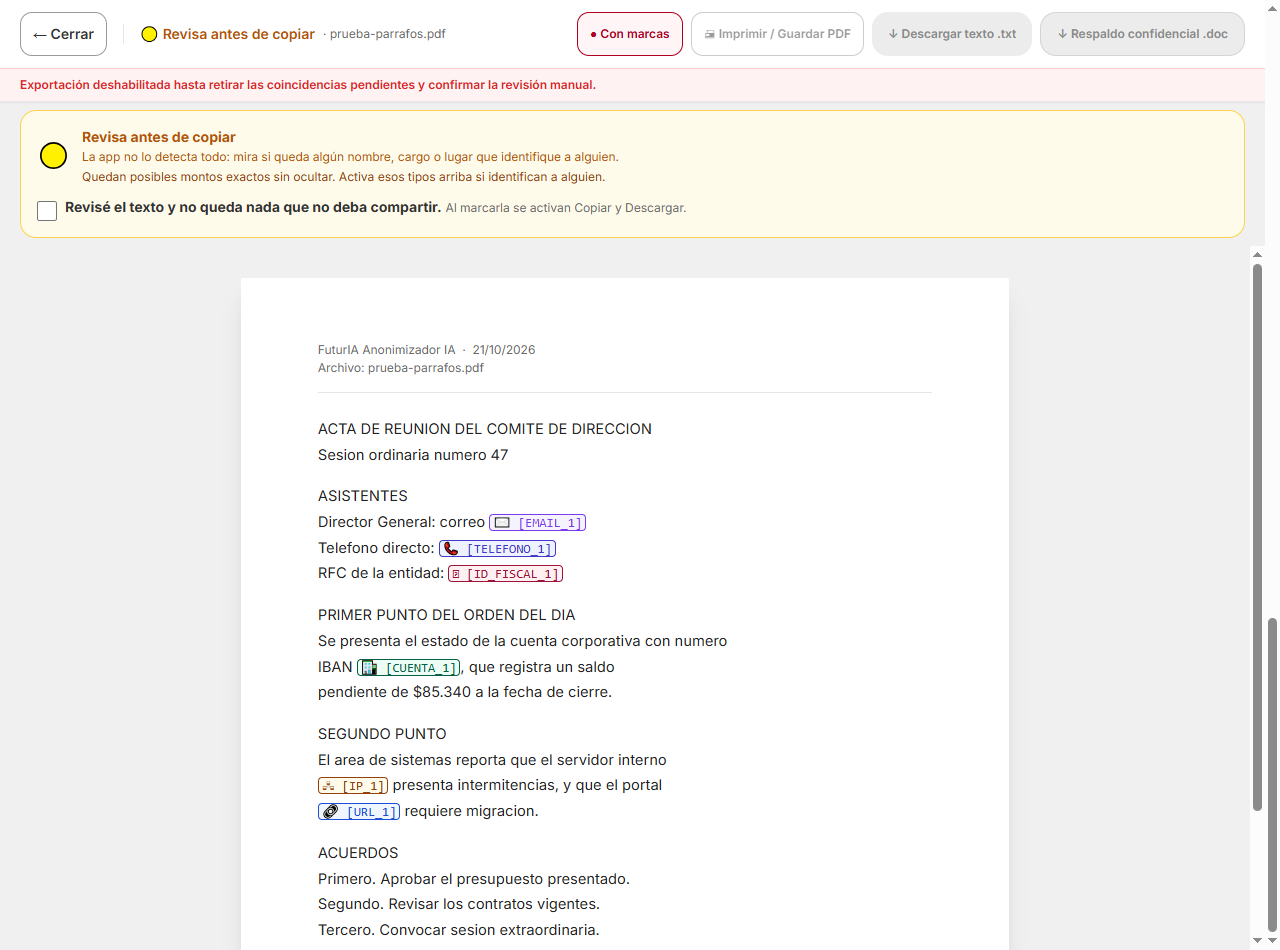
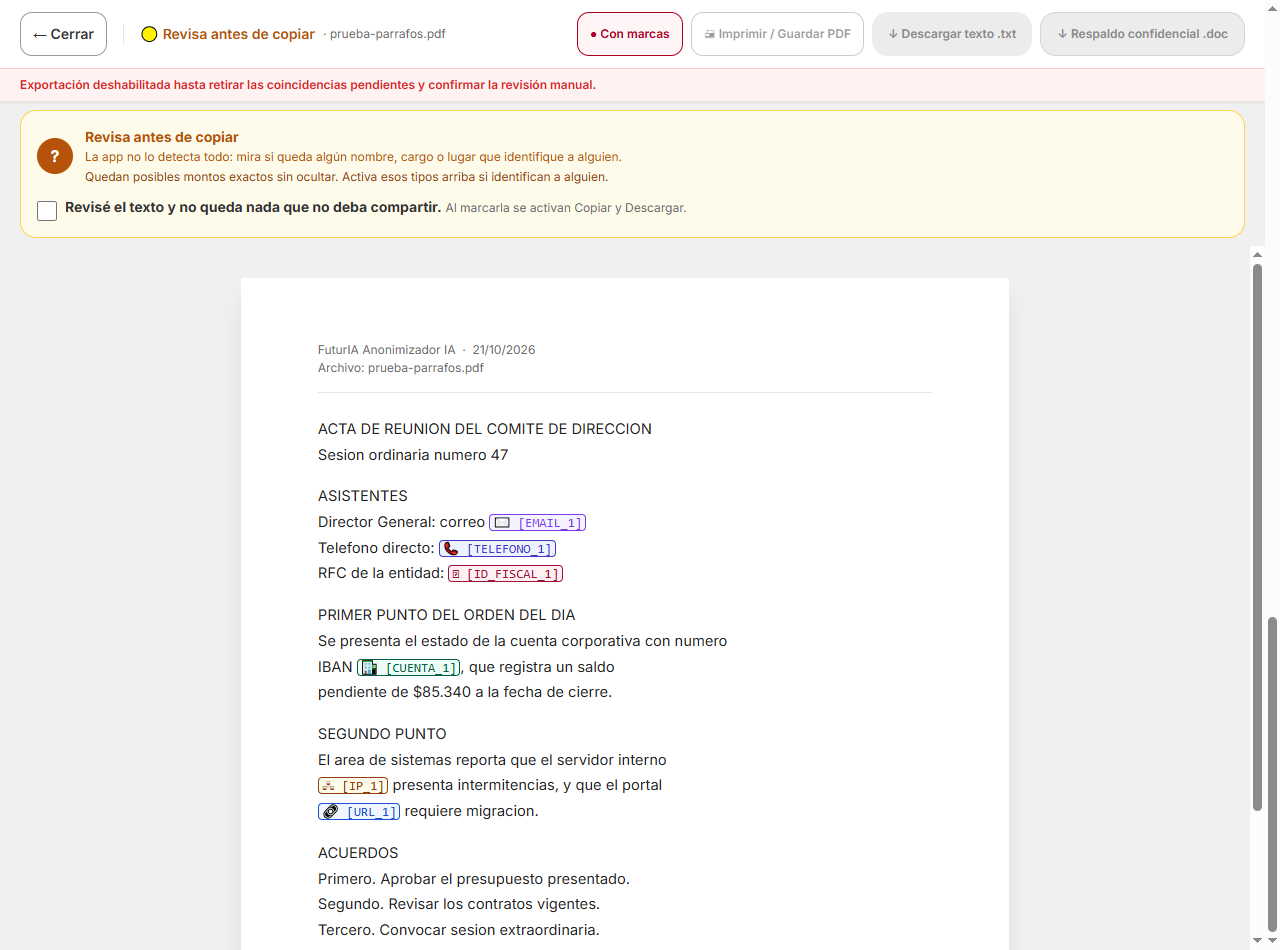
Resultado con una sola acción principal y motivos visibles cuando algo está apagado
- Fila de 5 botones → «Ver original» y «Ver como documento» como enlaces; barra inferior
  con Copiar/Descargar y, al lado, por qué están apagados si lo están.
- Semáforo con icono propio (!, ?, ✓) en vez de emoji de círculo.
- Word con originales explica que se activa al marcar la revisión; ✓ de etiquetas explicado.
- Hero: el ejemplo manda y «Más ejemplos» pasa a enlace; «Selección rápida»; «· siempre»
  en Claves en lugar de un candado sin explicar.
Pruebas: 207/207.

Changed region(s): [[0.0312, 0.1221, 0.4688, 0.2137]]

diff --git a/index.html b/index.html
@@ -691,7 +691,7 @@ function RiskSemaphore({ text, reviewed, onReview, activeIds, whitelist, riskDat
   return (
     <div className="flex flex-wrap items-center gap-3 rounded-2xl border p-4"
       style={{ backgroundColor: info.bg, borderColor: info.border }} role="region" aria-label="Estado de revisión">
-      <span className="text-2xl" aria-hidden="true">{info.emoji}</span>
+      <span aria-hidden="true" className="flex h-9 w-9 shrink-0 items-center justify-center rounded-full text-base font-bold text-white" style={{ backgroundColor: info.color }}>{score > 0 ? '!' : reviewed ? '✓' : '?'}</span>
       <div>
         <div className="font-bold text-sm" style={{ color: info.color }} role={score > 0 ? 'alert' : undefined}>{info.label}</div>
         {hits.length > 0 ? (
@@ -2696,7 +2696,7 @@ function CategoryPanel({ cats, onToggle, onPreset, customTerms, onCustomTerms, w
             <p className="mt-1 text-sm text-[#6b6b6b]">Los habituales ya están marcados. Marca o desmarca los que necesites.</p>
           </div>
           <div className="flex flex-wrap items-center gap-2" role="radiogroup" aria-label="Conjuntos predefinidos">
-            <span className="text-xs text-[#6b6b6b]">Conjunto:</span>
+            <span className="text-xs text-[#6b6b6b]">Selección rápida:</span>
             {PRESETS.map(p => {
               const selected = activePreset && activePreset.id === p.id;
               return (
@@ -2720,7 +2720,7 @@ function CategoryPanel({ cats, onToggle, onPreset, customTerms, onCustomTerms, w
               style={c.on ? { backgroundColor: c.bg, boxShadow: 'inset 0 0 0 1px ' + c.border } : undefined}>
               <span aria-hidden="true" className="inline-flex h-4 w-4 items-center justify-center rounded border text-[10px] font-bold" style={c.on ? { borderColor: c.color, backgroundColor: c.color, color: '#fff' } : { borderColor: '#9a9a9a', backgroundColor: '#fff' }}>{c.on ? '✓' : ''}</span>
               <span>{c.short || c.label}</span>
-              {c.alwaysOn ? <span aria-hidden="true" className="text-xs">🔒</span> : null}
+              {c.alwaysOn ? <span className="text-xs text-[#6b6b6b]">· siempre</span> : null}
             </button>
           ))}
         </div>
@@ -2908,8 +2908,8 @@ function WorkTab({ setLastResult, lastResult, initialMode }) {
             <p className="mt-1 text-xs text-[#6b6b6b]">Prueba primero con un ejemplo: son 50 textos con datos inventados.</p>
           </div>
           <div className="flex gap-2 flex-wrap">
-            <AppButton variant="secondary" onClick={trySample}>Ver un ejemplo ahora</AppButton>
-            <AppButton variant="secondary" onClick={() => setShowTemplates(true)} disabled={uploading}>Más ejemplos: contratos, nómina, ventas…</AppButton>
+            <AppButton variant="secondary" className="border-[#222222]" onClick={trySample}>Ver un ejemplo ahora</AppButton>
+            <button type="button" onClick={() => setShowTemplates(true)} disabled={uploading} className="text-sm font-semibold text-[#333333] underline-offset-2 hover:underline disabled:text-[#8a8a8a]">Más ejemplos: contratos, nómina, ventas…</button>
           </div>
         </div>
       </section>
@@ -2966,12 +2966,9 @@ function WorkTab({ setLastResult, lastResult, initialMode }) {
                 <h3 id="output-title" className="font-bold text-[#222222]">Texto listo para la IA</h3>
                 <span className="text-sm text-[#6b6b6b]"><strong className="text-[#222222]">{totalDetected}</strong> datos ocultados · <strong className="text-[#222222]">{byCategory.length}</strong> tipos</span>
               </div>
-              <div className="flex gap-2 flex-wrap">
-                <AppButton onClick={() => copyOutput(true)} disabled={!canExport} title={canExport ? '' : 'Marca la casilla de revisión para activar'}>{copied ? '✓ Copiado' : 'Copiar para pegar en la IA'}</AppButton>
-                <AppButton variant="secondary" onClick={() => copyOutput(false)} disabled={!canExport}>Copiar solo el texto</AppButton>
-                <AppButton variant="secondary" onClick={() => setShowOriginal(v => !v)} aria-expanded={showOriginal}>{showOriginal ? 'Ocultar el original' : 'Ver original y resultado'}</AppButton>
-                <AppButton variant="secondary" onClick={openViewer}>Ver como documento</AppButton>
-                <AppButton variant="secondary" onClick={() => canExport && downloadAnonText(result.out)} disabled={!canExport}>Descargar .txt</AppButton>
+              <div className="flex items-center gap-3 flex-wrap text-sm">
+                <button type="button" onClick={() => setShowOriginal(v => !v)} aria-expanded={showOriginal} className="font-semibold text-[#333333] underline-offset-2 hover:underline">{showOriginal ? 'Ocultar el original' : 'Ver original y resultado'}</button>
+                <button type="button" onClick={openViewer} className="font-semibold text-[#333333] underline-offset-2 hover:underline">Ver como documento</button>
               </div>
             </div>
             {byCategory.length > 0 ? (
@@ -2997,7 +2994,15 @@ function WorkTab({ setLastResult, lastResult, initialMode }) {
             ) : (
               <div className="rounded-2xl border border-[#e5e5e5] bg-[#fafafa] p-4 overflow-x-auto"><HighlightedOutput text={result.out} reps={result.reps} cats={allCats} onExclude={excludeFromResult} /></div>
             )}
-            <p className="mt-2 text-xs text-[#6b6b6b]">Toca una etiqueta para ver el dato original o dejarlo visible. «Copiar para pegar en la IA» añade una instrucción para que el modelo conserve las etiquetas.</p>
+            <p className="mt-2 text-xs text-[#6b6b6b]">Toca una etiqueta para ver el dato original o dejarlo visible. El ✓ indica que el número de identificación o cuenta es válido.</p>
+            <div className="mt-4 flex items-center justify-between gap-3 flex-wrap border-t border-[#e5e5e5] pt-4">
+              <span className="text-xs text-[#6b6b6b]">{canExport ? '«Copiar para pegar en la IA» añade una instrucción para que el modelo conserve las etiquetas.' : riskData.hits.length ? 'Para copiar: primero retira los datos que quedan por ocultar.' : 'Para copiar: marca arriba «Revisé el texto…».'}</span>
+              <div className="flex gap-2 flex-wrap">
+                <AppButton variant="secondary" onClick={() => copyOutput(false)} disabled={!canExport}>Copiar solo el texto</AppButton>
+                <AppButton variant="secondary" onClick={() => canExport && downloadAnonText(result.out)} disabled={!canExport}>Descargar .txt</AppButton>
+                <AppButton onClick={() => copyOutput(true)} disabled={!canExport}>{copied ? '✓ Copiado' : 'Copiar para pegar en la IA'}</AppButton>
+              </div>
+            </div>
           </section>
 
           {result.reps.length > 0 ? (
@@ -3010,9 +3015,10 @@ function WorkTab({ setLastResult, lastResult, initialMode }) {
                 <div className="flex gap-2 flex-wrap">
                   <AppButton onClick={downloadKey}>{keySaved ? '✓ Llave guardada' : 'Guardar llave en mi equipo'}</AppButton>
                   <AppButton variant="secondary" onClick={copyTable}>{copiedTable ? '✓ Copiada' : 'Copiar llave'}</AppButton>
-                  <AppButton variant="secondary" onClick={downloadDocs} disabled={!canExport} title={canExport ? '' : 'Disponible al marcar la revisión'}>Descargar Word con los originales</AppButton>
+                  <AppButton variant="secondary" onClick={downloadDocs} disabled={!canExport}>Descargar Word con los originales</AppButton>
                 </div>
               </div>
+              {!canExport ? <p className="mb-2 text-xs text-[#6b6b6b]">El Word con los originales se activa al marcar arriba «Revisé el texto…».</p> : null}
               <p className="mb-3 text-xs text-[#6b6b6b]">La llave contiene los datos reales. Guárdala con el documento y nunca la pegues en una IA.</p>
               <div className="overflow-x-auto">
                 <table className="w-full text-sm">
